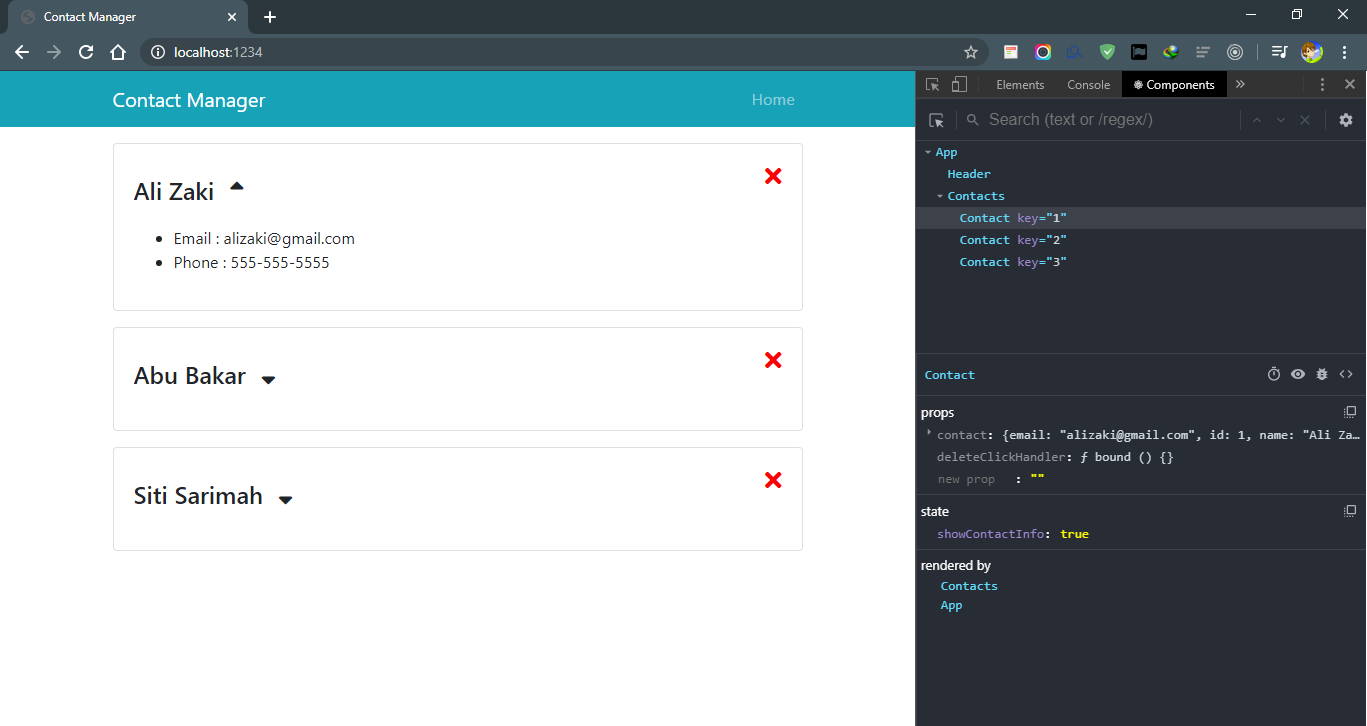
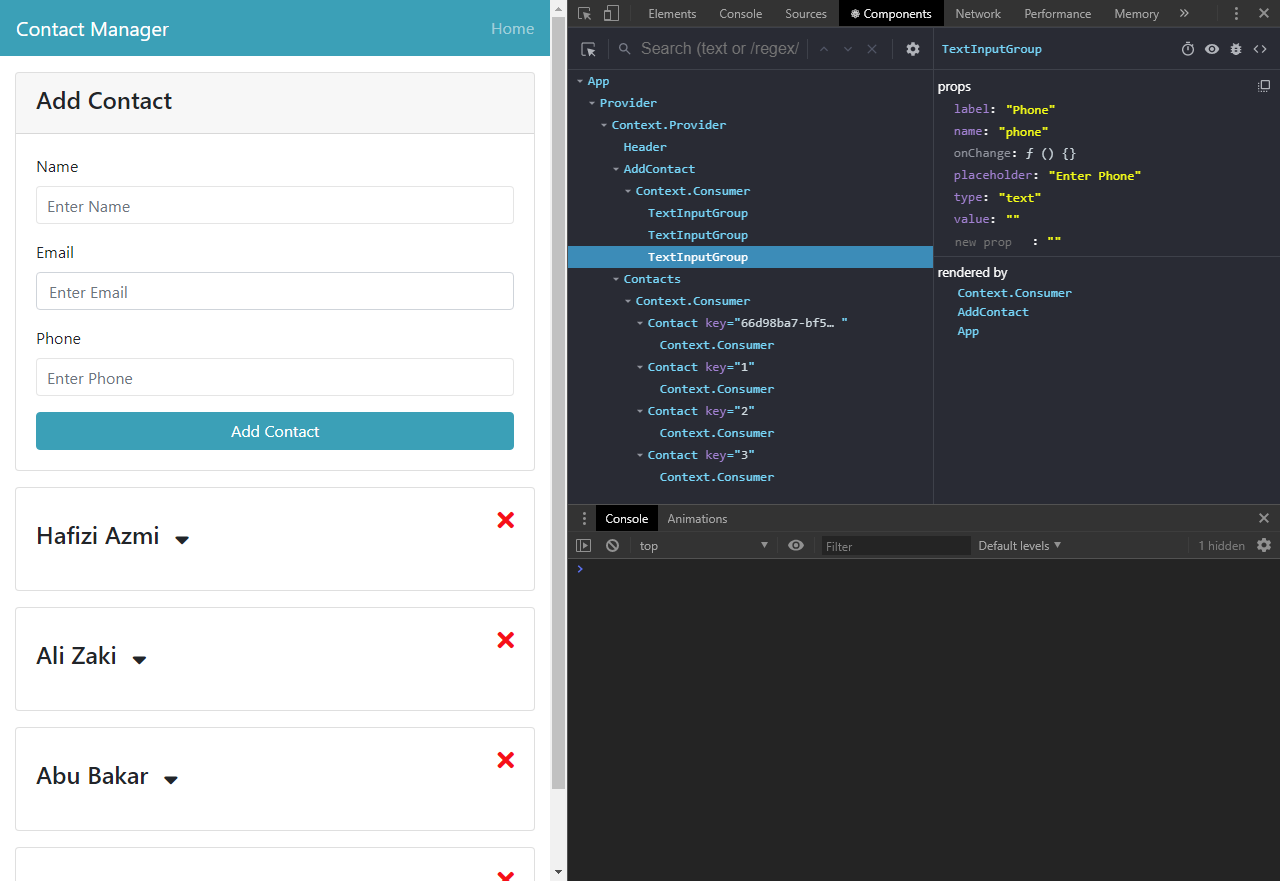
Add react router

diff --git a/src/components/contacts/AddContact.js b/src/components/contacts/AddContact.js
@@ -7,12 +7,31 @@ class AddContact extends Component {
   state = {
     name: '',
     email: '',
-    phone: ''
+    phone: '',
+    errors: {},
+    btnsubmit: "Add contact",
+    btnclass: "btn btn-info btn-block"
   }
 
   onSubmit = (dispatch, e) => {
     e.preventDefault();
     const { name, email, phone } = this.state;
+
+    // Check for errors
+    if (name === '') {
+      this.setState({errors: {name: 'Name is required'}});
+      return;
+    }
+
+    if (email === '') {
+      this.setState({errors: {email: 'Email is required'}});
+      return;
+    }
+
+    if (phone === '') {
+      this.setState({errors: {phone: 'Phone is required'}});
+      return;
+    }
 
     const newContact = {
       id: uuidv4(),
@@ -22,19 +41,29 @@ class AddContact extends Component {
     }
     dispatch({ type: 'ADD_CONTACT', payload: newContact });
 
+    // Clear State
     this.setState({
       name: '',
       email: '',
-      phone: ''
+      phone: '',
+      errors: {},
+      btnsubmit: "Added! Redirecting...",
+      btnclass: "btn btn-success btn-block"
     })
+
+    setTimeout(() => {
+      this.props.history.push('/')
+    }, 800);
   }
 
   onChange = e => this.setState({
-    [e.target.name]: e.target.value
+    [e.target.name]: e.target.value,
+    btnsubmit: "Add contact",
+    btnclass: "btn btn-info btn-block"
   });
   
   render() {
-    const { name, email, phone } = this.state;
+    const { name, email, phone , errors, btnsubmit, btnclass } = this.state;
 
     return (
       <Consumer>
@@ -51,6 +80,7 @@ class AddContact extends Component {
                     placeholder="Enter Name"
                     value={name}
                     onChange={this.onChange}
+                    error={errors.name}
                   />
                   <TextInputGroup 
                     label="Email"
@@ -59,6 +89,7 @@ class AddContact extends Component {
                     placeholder="Enter Email"
                     value={email}
                     onChange={this.onChange}
+                    error={errors.email}
                   />
                   <TextInputGroup 
                     label="Phone"
@@ -66,8 +97,9 @@ class AddContact extends Component {
                     placeholder="Enter Phone"
                     value={phone}
                     onChange={this.onChange}
+                    error={errors.phone}
                   />
-                  <input className="btn btn-info btn-block" type="submit" value="Add Contact"/>
+                  <input className={btnclass} type="submit" value={btnsubmit}/>
                 </form>
               </div>
             </div>

diff --git a/src/App.js b/src/App.js
@@ -1,23 +1,31 @@
 import React, { Component } from 'react';
+import { BrowserRouter as Router, Route, Switch } from 'react-router-dom';
 import Contacts from './components/contacts/Contacts';
-import Header from './components/layout/Header';
 import AddContact from './components/contacts/AddContact';
 import { Provider } from './context';
 import 'bootstrap/dist/css/bootstrap.min.css';
 import './App.css';
+import Header from './components/layout/Header';
+import About from './components/pages/About';
 
 class App extends Component {
 
   render() {
     return(
       <Provider>
-        <div className="App">
-          <Header branding="Contact Manager" />
-          <div className="container">
-            <AddContact />
-            <Contacts />
+        <Router>
+          <div className="App">
+            <Header branding="Contact Manager" />
+            <div className="container">
+              <Switch>
+                <Route exact path="/" component={Contacts} />
+                <Route exact path="/contact/add" component={AddContact} />
+                <Route exact path="/about" component={About} />
+              </Switch>              
+            </div>
+            <div className="bg-info footer">&copy; 2020 Contact Manager. All rights reserved.</div>
           </div>
-        </div>
+        </Router>
       </Provider>
     )
   }

diff --git a/src/components/layout/TextInputGroup.js b/src/components/layout/TextInputGroup.js
@@ -1,13 +1,15 @@
 import React from 'react';
 import PropTypes from 'prop-types';
+import classnames from 'classnames';
 
 const TextInputGroup = ({
   label,
   name,
   value,
   placeholder,
-  type,
-  onChange }) =>
+  type, 
+  onChange,
+  error }) =>
 {
   return (
     <div className="form-group">
@@ -15,11 +17,13 @@ const TextInputGroup = ({
       <input 
       type={type} 
       name={name}
-      className="form-control form-control-md" 
+      className={classnames('form-control form-control-sm', {
+        'is-invalid': error })}
       placeholder={placeholder}
       value={value}
       onChange={onChange}
       />
+      {error && <div className="invalid-feedback">{error}</div>}      
     </div>
   )
 }
@@ -30,7 +34,8 @@ TextInputGroup.propTypes = {
   placeholder: PropTypes.string.isRequired,
   value: PropTypes.string.isRequired,
   type: PropTypes.string.isRequired,
-  onChange: PropTypes.func.isRequired
+  onChange: PropTypes.func.isRequired,
+  error: PropTypes.string
 }
 
 TextInputGroup.defaultProps = {

diff --git a/src/components/contacts/Contact.js b/src/components/contacts/Contact.js
@@ -22,8 +22,8 @@ class Contact extends Component {
           const { dispatch } = value;
           
           return (
-            <div className='card card-body mb-3'>
-              <h4>{name}
+            <div className='card card-body pb-0 mb-3'>
+              <h5>{name}
                 <i onClick={() =>
                 this.setState({
                   showContactInfo: !this.state.showContactInfo
@@ -32,10 +32,10 @@ class Contact extends Component {
                   style={{cursor: 'pointer', padding: '15px'}} />
                 <i className="fas fa-times" style={{cursor: 'pointer', float: 'right', color: 'red'}}
                 onClick={this.onDeleteClick.bind(this, id, dispatch)} />         
-              </h4>
+              </h5>
               {showContactInfo ? (<ul>
                 <li>Email : {email}</li>
-                <li>Phone : {phone}</li> 
+                <li>Phone : {phone}</li>
               </ul>) : null}    
             </div>
           )

diff --git a/src/components/layout/Header.js b/src/components/layout/Header.js
@@ -1,5 +1,6 @@
 import React from 'react';
 import PropTypes from 'prop-types';
+import { Link } from 'react-router-dom'
 
 const Header = (props) => {
   const {branding} = props;
@@ -14,7 +15,13 @@ const Header = (props) => {
         <div>
           <ul className="navbar-nav mr-auto">
             <li className="nav-item">
-              <a href="/" className="nav-link">Home</a>
+              <Link to="/" className="nav-link"><i className="fas fa-home"></i> Home</Link>
+            </li>
+            <li className="nav-item">
+              <Link to="/contact/add" className="nav-link"><i className="fas fa-plus"></i> Add</Link>
+            </li>
+            <li className="nav-item">
+              <Link to="/about" className="nav-link"><i className="fas fa-question"></i> About</Link>
             </li>
           </ul>
         </div>

diff --git a/src/components/contacts/Contacts.js b/src/components/contacts/Contacts.js
@@ -10,6 +10,7 @@ class Contacts extends Component {
           const { contacts } = value;
           return (
             <>
+              <h1 className="display-6" ><span className="text-info">Contact</span> List</h1>
               {contacts.map(contact =>
                 <Contact
                   key={contact.id}

diff --git a/src/components/pages/About.js b/src/components/pages/About.js
@@ -1,0 +1,11 @@
+import React from 'react'
+
+export default () => {
+  return (
+    <div>
+      <h1 className="display-6" >About Contact Manager</h1>
+      <p className="lead">Simpple app to manage contacts</p>
+      <p className="text-secondary">Ver 1.0</p>
+    </div>
+  )
+}

diff --git a/src/App.css b/src/App.css
@@ -16,3 +16,13 @@ input[type='text'] {
   border-radius: 4px;
   color: rgb(31, 31, 31);
 }
+
+.footer {
+  width: 100%;
+  padding: 10px 10px;
+  position: fixed;
+  color: #fff;
+  text-align: center;
+  font-size: small;
+  bottom: 0
+}
